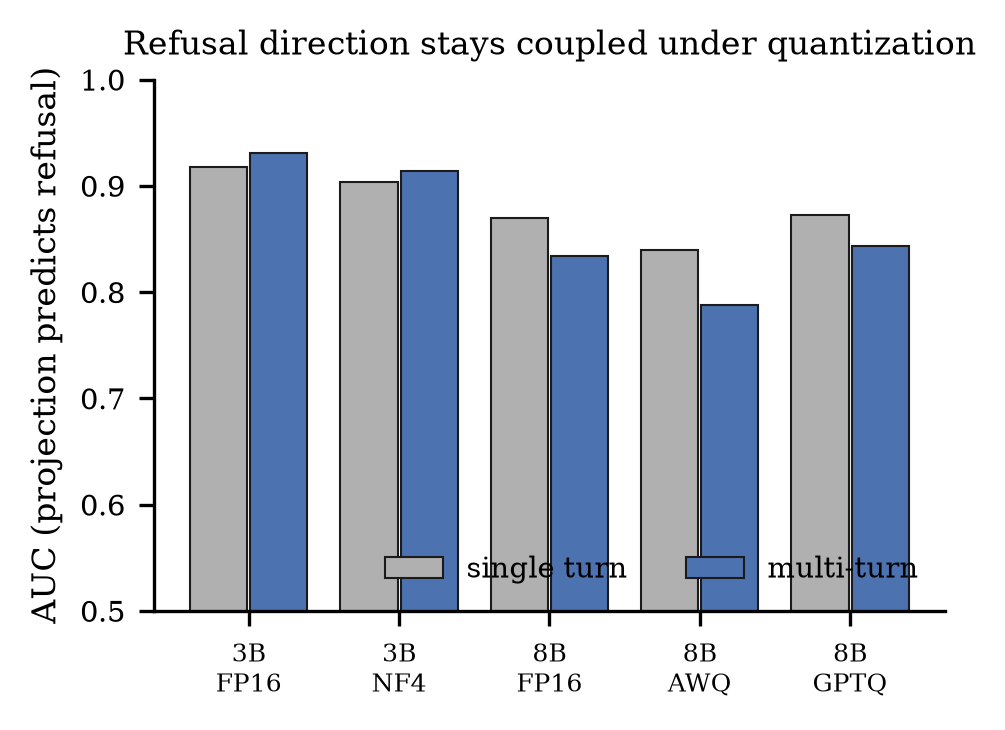
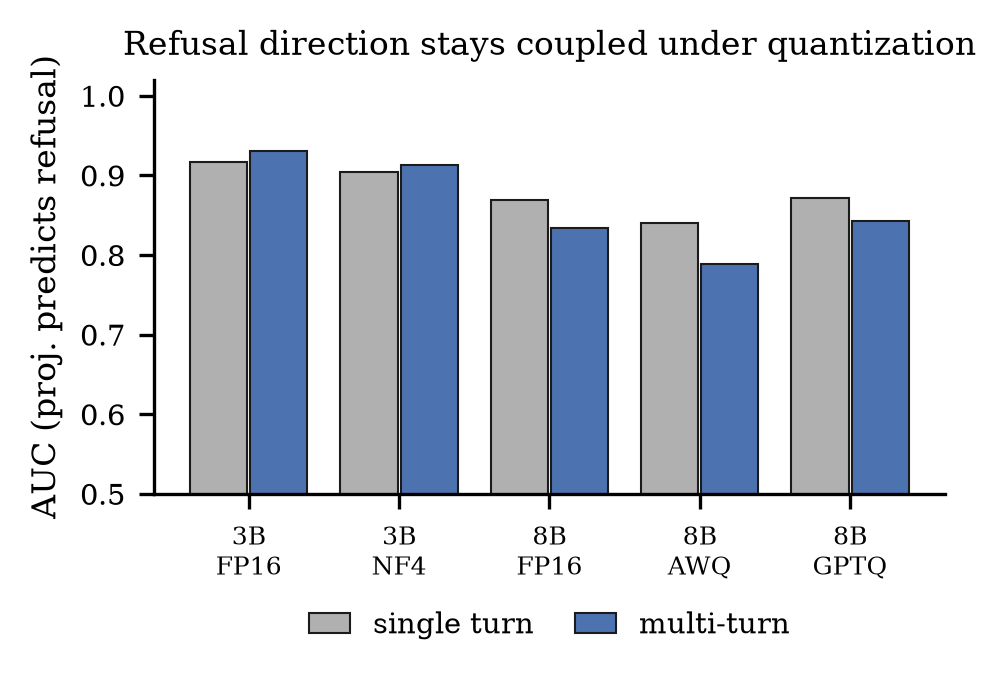
Finalize AAAI main.tex: port hero figures, fix coupling legend, remove filler; anonymous, ~5 content pages

diff --git a/paper/main.tex b/paper/main.tex
@@ -217,8 +217,8 @@ multi-turn effect is not.}
 \end{table}
 
 \paragraph{Multi-turn refusal does not depend on precision.}
-Table~\ref{tab:means} gives the rates and Figure~\ref{fig:multiturn} plots the
-in-context column. For 3B the two precisions are identical at 23\% (McNemar
+Table~\ref{tab:means} gives the rates, and Figure~\ref{fig:hero}(a) plots the
+in-context refusal. For 3B the two precisions are identical at 23\% (McNemar
 $\chi^2=0.25$, $p=0.62$), and the paired projection difference is null ($t=0.57$,
 $p=0.57$). For 8B the three precisions span 27 to 32\%, and Cochran's $Q$ over
 the paired refusals is not significant ($Q=4.2$, $p=0.12$). The non-refusal rate
@@ -287,7 +287,8 @@ Refusal is a lenient signal. We rescore every completion with Llama Guard 3
 (Table~\ref{tab:harm}). Two things follow. First, quantization does not raise the
 harmful-response rate in any condition; every quantized run is at or below its
 FP16 baseline and no comparison is significant, so the null survives a second,
-stricter metric. Second, the harm rate is far below the non-refusal rate: the
+stricter metric (Figure~\ref{fig:twometric}). Second, the harm rate is far below
+the non-refusal rate: the
 CoSafe attack takes 8B to a 73\% non-refusal rate by the substring metric, but
 only 6\% of those responses are judged harmful. The attack mostly produces
 non-refusing but non-harmful text. Refusal-based attack success overstates actual
@@ -299,11 +300,12 @@ To rule that out, we prepend a safety system prompt to every FP16 condition, an
 intervention that should change behavior. It does, and the harm metric detects
 it: under the multi-turn attack, the system prompt cuts 8B harmful responses from
 6\% to 0\% (McNemar $p=0.041$) and raises multi-turn refusal from 27\% to 38\%
-($p=0.006$). So the harm metric is not saturated; it registers a real safety
+($p=0.006$; Figure~\ref{fig:hero}b). So the harm metric is not saturated; it
+registers a real safety
 intervention on the same prompts where quantization registers nothing. The
-quantization null is a measured absence of effect, not an absence of power.
-Notably, the system prompt is the opposite of quantization here: it does move
-multi-turn safety, which is why it makes a clean control.
+quantization null is a measured absence of effect, not an absence of power. The
+system prompt is the opposite of quantization here: it moves multi-turn safety,
+which is what makes it a clean control.
 
 \begin{table}[t]
 \centering
@@ -324,26 +326,37 @@ $p \geq 0.48$).}
 \label{tab:harm}
 \end{table}
 
-\begin{figure}[t]
+\begin{figure*}[t]
 \centering
-\includegraphics[width=\columnwidth]{fig1_multiturn.pdf}
-\caption{Multi-turn (in-context) refusal by precision, with Wilson 95\%
-intervals. Precisions overlap within each model.}
-\label{fig:multiturn}
-\end{figure}
+\includegraphics[width=0.9\textwidth]{fig_hero.pdf}
+\caption{The two-metric null in one view. (a) Multi-turn refusal does not vary
+with precision (Wilson 95\% intervals overlap). (b) Multi-turn harmful-response
+rate is low and does not rise under quantization, yet a safety system prompt drops
+it to 0\%, showing the metric can detect a real intervention.}
+\label{fig:hero}
+\end{figure*}
+
+\begin{figure*}[t]
+\centering
+\includegraphics[width=0.9\textwidth]{fig_twometric.pdf}
+\caption{Single-turn versus multi-turn on both metrics for Llama-3.1-8B.
+Quantization moves neither refusal (a) nor harmful-response rate (b) at either
+horizon.}
+\label{fig:twometric}
+\end{figure*}
 
 \begin{figure}[t]
 \centering
-\includegraphics[width=0.86\columnwidth]{fig2_cold_vs_ic.pdf}
+\includegraphics[width=0.92\columnwidth]{fig2_cold_vs_ic.pdf}
 \caption{Llama-3.1-8B refusal, single turn (cold) versus multi-turn
-(in-context). The single-turn precision gap (23/31/34\%) narrows and loses
-significance in context.}
+(in-context). The single-turn precision gap narrows and loses significance in
+context.}
 \label{fig:coldvsic}
 \end{figure}
 
 \begin{figure}[t]
 \centering
-\includegraphics[width=0.86\columnwidth]{fig3_coupling.pdf}
+\includegraphics[width=0.92\columnwidth]{fig3_coupling.pdf}
 \caption{AUC of projection onto the refusal direction predicting refusal. The
 direction stays coupled to behavior under every precision.}
 \label{fig:coupling}

diff --git a/make_figures.py b/make_figures.py
@@ -118,10 +118,12 @@ ax.bar(x + 0.2, [auc(m, q, "ic") for m, q in runs], 0.38, label="multi-turn",
 ax.axhline(0.5, color=INK, lw=0.6, ls=":")
 ax.set_xticks(x)
 ax.set_xticklabels([f"{m}\n{q.upper()}" for m, q in runs], fontsize=6)
-ax.set_ylabel("AUC (projection predicts refusal)")
-ax.set_ylim(0.5, 1.0)
-ax.set_title("Refusal direction stays coupled under quantization")
-ax.legend(frameon=False, loc="lower right", ncol=2)
+ax.set_ylabel("AUC (proj. predicts refusal)")
+ax.set_ylim(0.5, 1.02)
+ax.set_title("Refusal direction stays coupled under quantization", fontsize=8)
+ax.legend(frameon=False, loc="upper center", bbox_to_anchor=(0.5, -0.22),
+          ncol=2, handlelength=1.4, columnspacing=1.4)
+fig.subplots_adjust(bottom=0.28)
 save(fig, "fig3_coupling")
 
 print("wrote fig1_multiturn, fig2_cold_vs_ic, fig3_coupling (.pdf + .png)")